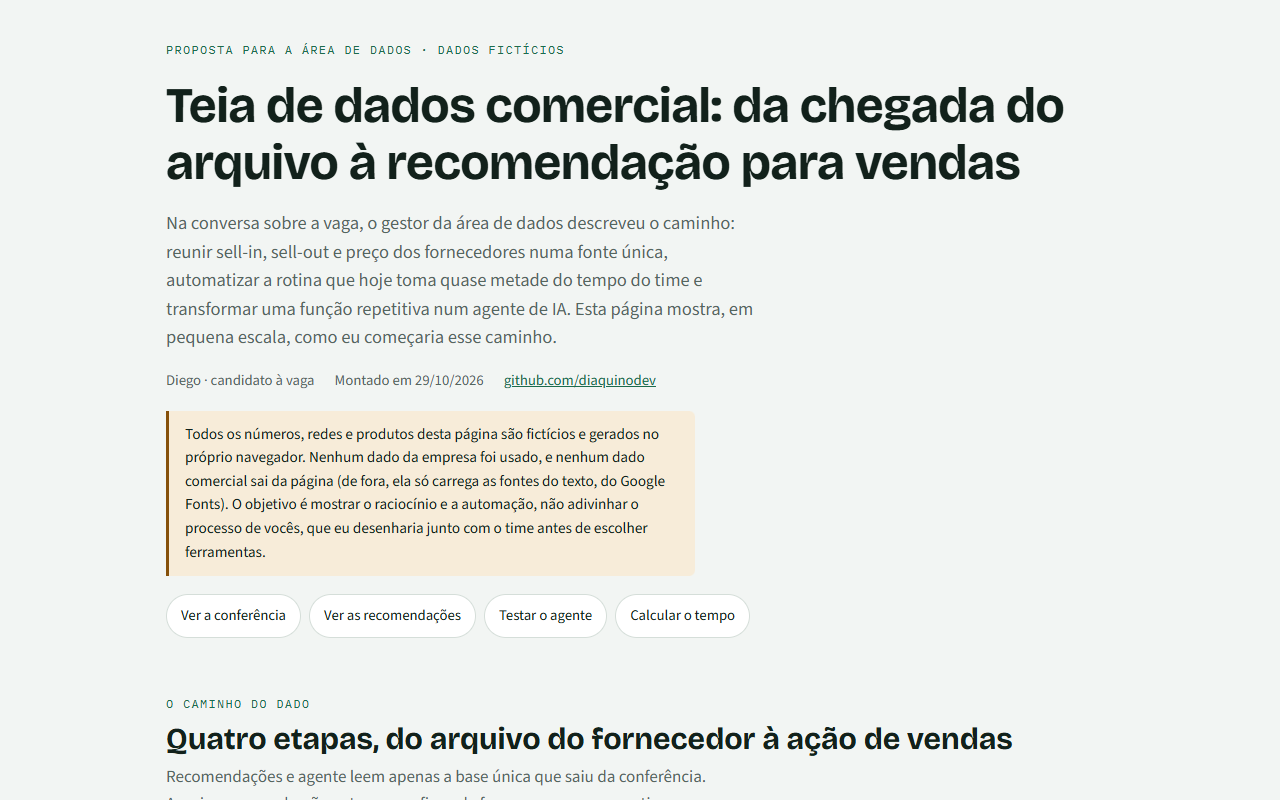
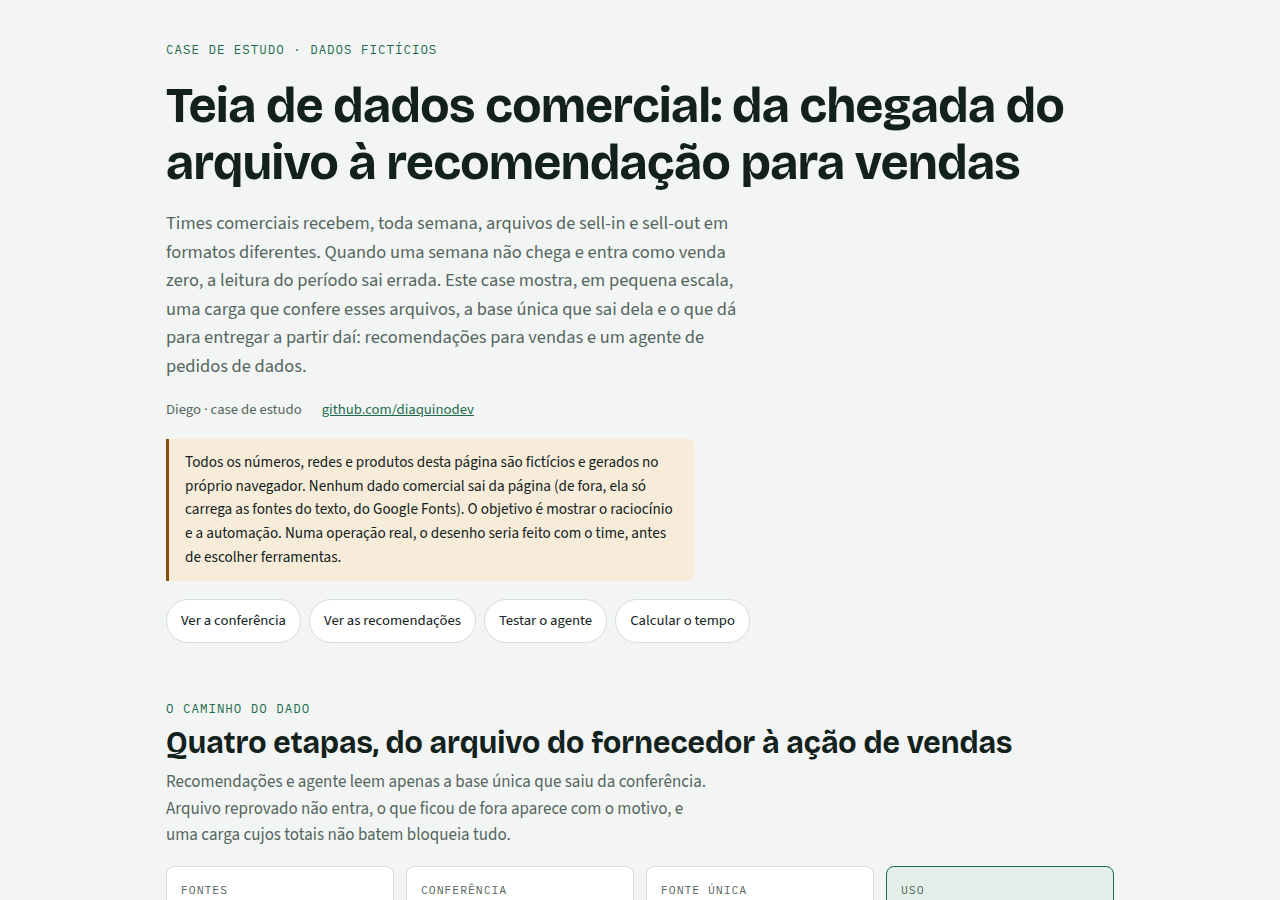
Apresenta a página como case de estudo (#3)
Tira o tom de processo seletivo da abertura, do rodapé e do README.
O problema comercial, as decisões e o aviso de dados fictícios ficam.

diff --git a/docs/index.html b/docs/index.html
@@ -196,15 +196,14 @@ footer { border-top: 1px solid var(--line); padding-top: 20px; font-size: 0.92re
 
 <main class="wrap">
   <header class="intro">
-    <span class="eyebrow">Proposta para a área de dados · dados fictícios</span>
+    <span class="eyebrow">Case de estudo · dados fictícios</span>
     <h1>Teia de dados comercial: da chegada do arquivo à recomendação para vendas</h1>
-    <p class="lead">Na conversa sobre a vaga, o gestor da área de dados descreveu o caminho: reunir sell-in, sell-out e preço dos fornecedores numa fonte única, automatizar a rotina que hoje toma quase metade do tempo do time e transformar uma função repetitiva num agente de IA. Esta página mostra, em pequena escala, como eu começaria esse caminho.</p>
+    <p class="lead">Times comerciais recebem, toda semana, arquivos de sell-in e sell-out em formatos diferentes. Quando uma semana não chega e entra como venda zero, a leitura do período sai errada. Este case mostra, em pequena escala, uma carga que confere esses arquivos, a base única que sai dela e o que dá para entregar a partir daí: recomendações para vendas e um agente de pedidos de dados.</p>
     <div class="byline">
-      <span>Diego · candidato à vaga</span>
-      <span>Montado em 29/10/2026</span>
+      <span>Diego · case de estudo</span>
       <a href="https://github.com/diaquinodev" target="_blank" rel="noopener">github.com/diaquinodev</a>
     </div>
-    <p class="note">Todos os números, redes e produtos desta página são fictícios e gerados no próprio navegador. Nenhum dado da empresa foi usado, e nenhum dado comercial sai da página (de fora, ela só carrega as fontes do texto, do Google Fonts). O objetivo é mostrar o raciocínio e a automação, não adivinhar o processo de vocês, que eu desenharia junto com o time antes de escolher ferramentas.</p>
+    <p class="note">Todos os números, redes e produtos desta página são fictícios e gerados no próprio navegador. Nenhum dado comercial sai da página (de fora, ela só carrega as fontes do texto, do Google Fonts). O objetivo é mostrar o raciocínio e a automação. Numa operação real, o desenho seria feito com o time, antes de escolher ferramentas.</p>
     <nav class="atalhos" aria-label="Ir para">
       <a href="#s-conf">Ver a conferência</a>
       <a href="#s-recs">Ver as recomendações</a>
@@ -262,7 +261,7 @@ footer { border-top: 1px solid var(--line); padding-top: 20px; font-size: 0.92re
     <div class="head">
       <span class="eyebrow">Etapa 2 · conferência automática</span>
       <h2 id="s-conf">Antes de qualquer número ir para vendas, o código confere a chegada</h2>
-      <p class="muted">Cada quadrado é um arquivo de sell-out esperado por semana. A conferência roda a cada chegada; em produção, ela avisaria o time no canal de vocês antes de publicar.</p>
+      <p class="muted">Cada quadrado é um arquivo de sell-out esperado por semana. A conferência roda a cada chegada. Em produção, ela avisaria o time no canal da área antes de publicar.</p>
     </div>
     <div class="files-wrap" tabindex="0" role="region" aria-label="Arquivos de sell-out por rede e semana"><div class="grid-files" id="files"></div></div>
     <p class="dica-rolagem">Deslize a grade para o lado para ver todas as semanas.</p>
@@ -301,7 +300,7 @@ footer { border-top: 1px solid var(--line); padding-top: 20px; font-size: 0.92re
         <button type="submit">Enviar</button>
       </form>
     </div>
-    <p class="small muted">Simulação: aqui o pedido é interpretado por regras no navegador. Na empresa, um modelo de linguagem escolheria entre consultas aprovadas, o SQL seria validado antes de rodar e o acesso seguiria as permissões de cada área.</p>
+    <p class="small muted">Simulação: aqui o pedido é interpretado por regras no navegador. Numa operação real, um modelo de linguagem escolheria entre consultas aprovadas, o SQL seria validado antes de rodar e o acesso seguiria as permissões de cada área.</p>
   </section>
 
   <section aria-labelledby="s-tempo">
@@ -329,7 +328,7 @@ footer { border-top: 1px solid var(--line); padding-top: 20px; font-size: 0.92re
 
   <section aria-labelledby="s-plano">
     <div class="head">
-      <span class="eyebrow">Como eu levaria isso para a área</span>
+      <span class="eyebrow">Da demonstração à operação</span>
       <h2 id="s-plano">Primeiro o desenho com o time, depois a ferramenta</h2>
     </div>
     <div class="plan">
@@ -347,13 +346,13 @@ footer { border-top: 1px solid var(--line); padding-top: 20px; font-size: 0.92re
       </div>
     </div>
     <ul class="limits small muted">
-      <li>Trabalhei com dados de vendas, estoque, ERP e marketplaces no e-commerce. Dados de sell-in e sell-out de bebidas seriam novos para mim, e eu começaria aprendendo com o time.</li>
+      <li>A página cobre a carga conferida, a base única, as recomendações e o agente. Validação pelas áreas, aprovação humana e a medição de acerto ficam para uma operação real.</li>
       <li>As regras desta página têm testes com casos escritos à mão, inclusive os limites de cada regra, além de testes da tela em Chrome, Edge, Firefox e Safari, no computador e no celular.</li>
     </ul>
   </section>
 
   <footer>
-    <span>Diego · proposta enviada para o processo seletivo da área de dados.</span>
+    <span>Diego · case de estudo com dados fictícios.</span>
     <span>Projetos com código e testes: <a href="https://github.com/diaquinodev" target="_blank" rel="noopener">github.com/diaquinodev</a></span>
   </footer>
 </main>

diff --git a/README.md b/README.md
@@ -1,9 +1,9 @@
 # Teia de Dados Comercial
 
-Prova de conceito com **dados fictícios**: arquivos de sell-in (o que a rede compra, pelo
+Case de estudo com **dados fictícios**: arquivos de sell-in (o que a rede compra, pelo
 distribuidor) e sell-out (o que a rede vende ao consumidor) chegam dos fornecedores, passam por uma carga
 conferida e viram uma base única. Dessa base saem recomendações para vendas e as respostas de um
-agente de pedidos de dados.
+agente de pedidos de dados. Semana sem arquivo aparece como falta, nunca como zero.
 
 **Abrir a demonstração:** https://diaquinodev.github.io/teia-de-dados/ (sem login, sem instalar nada)
 
@@ -13,10 +13,11 @@ agente de pedidos de dados.
 
 ## O problema
 
-Em áreas comerciais, boa parte do tempo vai para juntar arquivos de fontes diferentes, conferir
-se os números batem e responder pedidos repetidos. O risco não é só a demora: uma semana sem
-arquivo tratada como venda zero vira uma decisão errada. Esta demonstração mostra como eu
-começaria a atacar isso, em pequena escala, antes de desenhar a solução real com o time.
+Times comerciais recebem, toda semana, arquivos heterogêneos de sell-in e sell-out. Boa parte do
+tempo vai para juntar essas fontes, conferir se os números batem e responder pedidos repetidos. O
+risco não é só a demora: uma semana sem arquivo tratada como venda zero vira uma decisão errada.
+Este case mostra, em pequena escala, uma forma de atacar isso antes de desenhar a operação real
+com o time.
 
 ## Como funciona
 
@@ -93,7 +94,7 @@ uma frase com palavra nova recebe uma recusa, mesmo quando uma pessoa entenderia
 ## Da demonstração à operação real
 
 Os desenhos abaixo são **hipótese para validar com o time, não um processo já confirmado**. Quem
-aprova o quê depende de como a área funciona, e eu desenharia isso junto com as pessoas antes de
+aprova o quê depende de como a área funciona. O desenho seria feito junto com as pessoas, antes de
 escolher ferramentas.
 
 **A evolução em fases.** Consultas e reports continuam funcionando durante toda a mudança:
